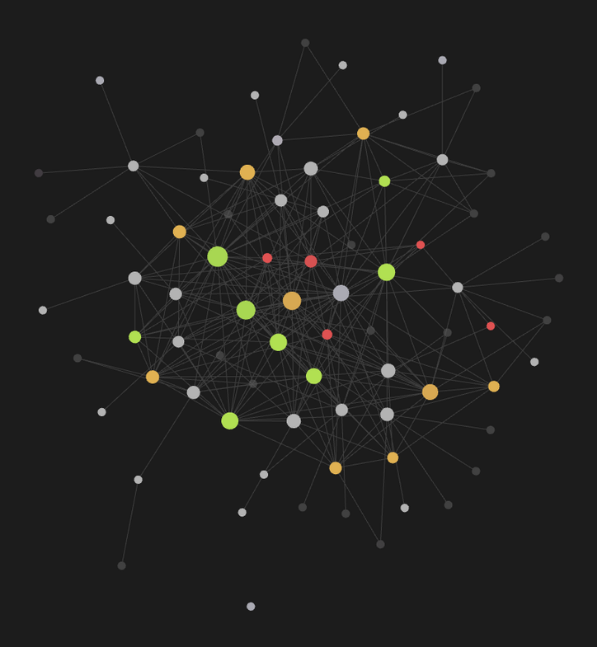
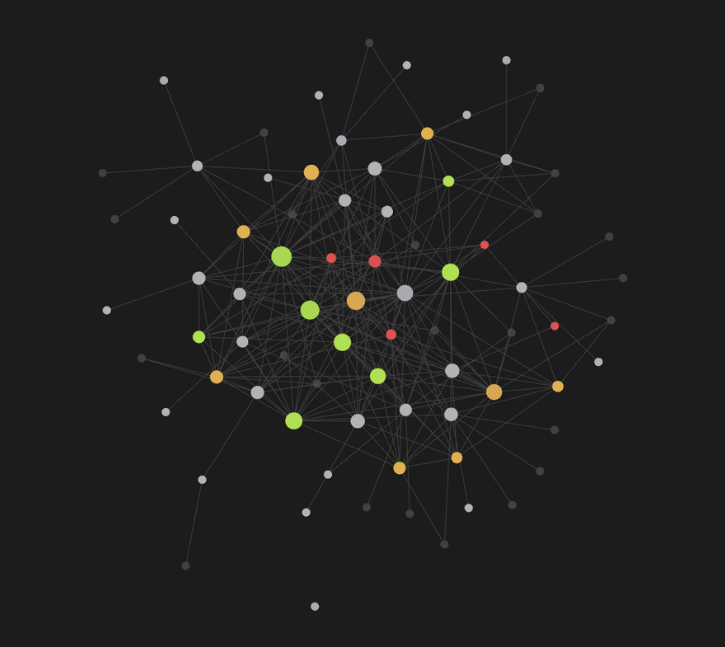
docs: Update README

diff --git a/README.md b/README.md
@@ -4,19 +4,42 @@
 you use it.** Three layers, each a complete working system, each adding exactly one
 idea to the previous one.
 
-```
-raw/note.md ──► wiki/sources/note.md ──► ≥2 mentions ──► wiki/concepts/mcp.md
-                                                     ↘   wiki/overview.md
-                                                     ↘   wiki/index.md   (generated)
-                                                     ↘   log.md          (append-only)
-```
+<img src="assets/llm_wiki_architecture.png" alt="LLM wiki architecture: notes, repos, articles and videos are ingested into an immutable raw/ layer, transformed into wiki/, and queried by an agent" width="800"/>
 
 ## Slides & video
 
-| | |
-|---|---|
-| 📺 **Video** — the workshop, end to end | *to be added* |
-| 🖼 **Slides** | *to be added* |
+🎬 Video and 📑 slides — *coming soon*.
+
+<!-- When the recording is live, replace the line above with the clickable thumbnail:
+
+🎬 Full workshop available on [YouTube](https://www.youtube.com/watch?v=VIDEO_ID) ↓
+
+<a href="https://www.youtube.com/watch?v=VIDEO_ID">
+  <img src="https://img.youtube.com/vi/VIDEO_ID/maxresdefault.jpg" alt="Watch the workshop" style="width:100%; max-width:600px;">
+</a>
+
+📑 Slides [here](SLIDES_URL).
+-->
+
+## How to use this repo
+
+Three ways in. Pick the one that fits the time you have — or do all three in
+order, since each builds on the last:
+
+1. **Read a finished wiki. ~15 min, nothing to install.** Open a committed
+   reference run —
+   [`01-llm-wiki-vanilla/examples/wiki-01-ai-engineering/`](01-llm-wiki-vanilla/examples/wiki-01-ai-engineering/)
+   is the smallest — ideally as an Obsidian vault. You'll see the two halves
+   (`raw/` vs `wiki/`), every claim carrying its citation, and what the ≥2
+   threshold chose to write, before running anything yourself.
+2. **Run one layer's demo. ~30 min.** Install the
+   [prerequisites](#prerequisites), `cd 01-llm-wiki-vanilla`, open your harness,
+   and type the prompts in [`demo.md`](01-llm-wiki-vanilla/demo.md). Every
+   prompt comes with one thing to verify.
+3. **Work through all three layers. ~2–3 h.** Layers 01 and 02 start from
+   nothing; layer 03 starts from a committed copy of layer 02's end state. Read
+   each layer's `CHANGES-FROM-PREVIOUS.md` first to see exactly which files the
+   new idea touched — that diff is the lesson.
 
 ## What an "LLM wiki" is
 
@@ -34,8 +57,84 @@ One note mentioning something is a fact about the note. Two notes mentioning it 
 a fact about your knowledge. That single threshold is what stops the wiki filling
 with stubs — and watching it fire is the most useful five minutes of the workshop.
 
+<img src="assets/one_ingested_item.png" alt="What happens to one ingested item: copied to raw/, distilled into a source page with key insights, entities and concepts — and when a concept reaches ≥2 sources, a synthesized concept page materializes" width="800"/>
+
 The navigation (`index.md` files) is a **derived cache**: delete it, re-run one
 script, get identical bytes back. Nothing has to be kept in sync by hand.
+
+<img src="assets/how_the_index_works.png" alt="How the index works: source, concept and entity pages feed per-directory index files, which feed the root index.md, the overview and the log" width="800"/>
+
+<table>
+<tr>
+<td align="center"><img src="assets/obsidian_graph_02_llm_wiki_ingest_master_index.png" alt="Obsidian graph with the root index.md highlighted, linking out to each section index"/></td>
+<td align="center"><img src="assets/obsidian_graph_02_llm_wiki_ingest_concepts_index.png" alt="Obsidian graph with concepts/index.md highlighted, linking out to every concept page"/></td>
+</tr>
+<tr>
+<td align="center"><em>The master <code>index.md</code> — one hop to every section</em></td>
+<td align="center"><em><code>concepts/index.md</code> — one hop to every concept page</em></td>
+</tr>
+</table>
+
+This is what one looks like as an Obsidian graph — and what it grows into:
+
+<table>
+<tr>
+<td align="center"><img src="assets/obsidian_graph_02_llm_wiki_ingest.png" alt="Obsidian graph of layer 02's reference run: colored concept and entity hubs surrounded by source pages and hollow nodes waiting for a second mention"/></td>
+<td align="center"><img src="assets/obsidian_graph_book.png" alt="Obsidian graph of a mature LLM wiki built from a real corpus: a dense, connected knowledge graph"/></td>
+</tr>
+<tr>
+<td align="center"><em>Layer 02's reference run — 14 sources, 17 nodes</em></td>
+<td align="center"><em>The same system after months on a real corpus — 135 sources, 120 nodes</em></td>
+</tr>
+</table>
+
+<details>
+<summary><strong>What a page actually looks like</strong> — a real concept page from the layer 01 reference run (click to expand)</summary>
+
+<br/>
+
+Three sources engaged with CLIs, so [`wiki/concepts/cli.md`](01-llm-wiki-vanilla/examples/wiki-01-ai-engineering/wiki/concepts/cli.md)
+exists. Frontmatter is the contract; every claim in the body cites the source
+page that backs it; the LLM's own judgment is fenced off as `> Synthesis:`.
+
+```markdown
+---
+type: concept
+title: CLI (as a connectivity layer)
+description: Command-line tools as an agent connectivity layer — fast to adopt
+  in sandboxed, local-execution contexts, but hard to govern once distributed.
+sources:
+  - "[[wiki/sources/the-future-of-mcp-vs-skills]]"
+  - "[[wiki/sources/the-future-of-mcp-why-the-future-of-agents-is-mcp-skills]]"
+  - "[[wiki/sources/why-mcp-is-not-dead]]"
+related:
+  - "[[wiki/concepts/agent-connectivity]]"
+  - "[[wiki/entities/mcp]]"
+created: 2026-08-29T15:32:43Z
+timestamp: 2026-08-29T15:32:43Z
+source_count: 3
+---
+
+# CLI (as a connectivity layer)
+
+> The connectivity layer every source treats as the easy, ungoverned default —
+> great alone, until governance or multi-user distribution enters the picture.
+
+## Key claims
+
+- CLIs are popular with local coding agents because they're easy to compose in
+  a shell and automatically discoverable by a model, and they benefit from
+  being well-represented in LLM training data (e.g., git, GitHub CLIs).
+  [[wiki/sources/the-future-of-mcp-vs-skills]]
+- CLIs work well for personal setups but don't scale to business distribution:
+  installing a CLI on every customer's machine, with no governance model, is a
+  non-starter. [[wiki/sources/why-mcp-is-not-dead]]
+
+> Synthesis: The layer every source treats as the easy default — the ceiling it
+> hits (governance, distribution) is exactly the floor MCP is argued to start from.
+```
+
+</details>
 
 ## The three layers
 
@@ -55,25 +154,54 @@ Layer 01's cap is not a safety rail — it is the honest ceiling of doing everyt
 one context; feed it the 50-note batch and it refuses. Removing the cause rather than
 raising the number is how layer 02 earns its complexity.
 
+## 📬 Learn more on LLM Wikis and agent memory
+
+> Join 40k+ engineers reading [the Decoding AI Magazine](https://www.decodingai.com/) and watching [the Decoding AI YouTube channel](https://www.youtube.com/@itsdecodingai) to learn to design LLM wikis and advanced agent-memory techniques.
+
+<a href="https://www.decodingai.com/" target="_blank">
+  <img src="assets/decodingai.jpg" alt="Decoding AI Magazine" width="100%"/>
+</a>
+
 ## Prerequisites
 
 This is the only place they are listed. Install these once and every skill in every
 layer works out of the box — the skills run the scripts, clone the repos and fetch
 the articles themselves. You only ever type prompts.
 
-- **An agent harness** that can load a skill, read and write files, and run shell
-  commands. Claude Code is the reference: run `claude` inside a layer directory and
-  it finds the skill through `.claude/skills`. Anything equivalent works — nothing
-  here pins a model or a tool name. Layers 02–03 also want a way to spawn
-  subagents; if yours cannot, run the `agents/*.md` files as sequential prompts.
-- **Python ≥3.12** and [`uv`](https://docs.astral.sh/uv/). The scripts are PEP 723
-  single files; `uv` installs their dependencies the first time a skill runs one —
-  no virtualenv, no install step.
-- **`git` and `curl`**, for the repo and article adapters in layers 02–03. No
+| Requirement | Check | Install |
+|---|---|---|
+| An agent harness (Claude Code is the reference) | `claude --version` | [claude.com/claude-code](https://claude.com/claude-code) |
+| Python ≥3.12 | `python3 --version` | `uv python install 3.12` or [python.org](https://www.python.org/downloads/) |
+| [`uv`](https://docs.astral.sh/uv/) | `uv --version` | `curl -LsSf https://astral.sh/uv/install.sh \| sh` ([docs](https://docs.astral.sh/uv/getting-started/installation/)) |
+| `git` + `curl` | `git --version`, `curl --version` | pre-installed on macOS/Linux |
+| Obsidian (optional, recommended) | — | [obsidian.md](https://obsidian.md) |
+
+What each is for:
+
+- **The harness** must load a skill, read and write files, and run shell commands.
+  Run `claude` inside a layer directory and it finds the skill through
+  `.claude/skills`; anything equivalent works — nothing here pins a model or a
+  tool name. Layers 02–03 also want a way to spawn subagents; if yours cannot,
+  run the `agents/*.md` files as sequential prompts.
+- **`uv`** is why there is no install step: the scripts are PEP 723 single files,
+  and `uv` installs their dependencies the first time a skill runs one — no
+  virtualenv.
+- **`git` and `curl`** feed the repo and article adapters in layers 02–03. No
   GitHub token: the demo repo is public and cloned shallow.
-- **Obsidian**, optional but recommended — it is how you check your work. Open a
-  layer's `wiki-ai-engineering/` as a vault and the graph view shows the wiki's
-  shape, including the hollow nodes that mark ideas waiting for a second source.
+- **Obsidian** is how you check your work. Open a layer's `wiki-ai-engineering/`
+  as a vault and the graph view shows the wiki's shape, including the hollow
+  nodes that mark ideas waiting for a second source.
+
+**Verify the setup** — from the repo root, run one of the workshop's scripts
+against a committed reference run:
+
+```bash
+uv run --script 01-llm-wiki-vanilla/.agents/skills/01-llm-wiki-vanilla/scripts/count_mentions.py \
+  --wiki-dir 01-llm-wiki-vanilla/examples/wiki-01-ai-engineering
+```
+
+If it prints a mention table (12 slugs, 9 qualifying), `uv` and Python are wired
+and every layer's scripts will run.
 
 ## How to run it
 
@@ -144,6 +272,8 @@ because one context has to hold all of them.
 `raw/` only if a page genuinely fails. Every claim carries a wikilink; the only
 file that changes is `log.md`. If the wiki does not know, it says so.
 
+<img src="assets/progressive_disclosure_query.png" alt="Querying via progressive disclosure: the agent walks index.md, then a section index, then concept/entity pages, then source pages, and reaches raw/ only as a last resort" width="800"/>
+
 **Run it** — [`01-llm-wiki-vanilla/demo.md`](01-llm-wiki-vanilla/demo.md): ingest
 the 5 easy notes, ask one question, look at the graph.
 
@@ -161,15 +291,7 @@ same list drawn as a graph.
 
 **Goal: remove the ceiling, and let anything with a URI become a source.**
 
-```
-                    ┌── source_writer ── wiki/sources/a.md ──┐
-raw artifacts ──────┼── source_writer ── wiki/sources/b.md ──┼── receipts ──► orchestrator
-                    └── repo_writer ──── wiki/repos/…/ARCHITECTURE.md ─┘          │
-                                                                                  ▼
-                                                         count_mentions → page_writer × N
-                                                                        → overview_writer
-                                                                        → build_index_md
-```
+<img src="assets/fan_out_parallelism.png" alt="Fan-out parallelism: each URI is fetched into raw/, read by its own source writer, aggregated by page writers, then the overview writer — the orchestrator only ever sees receipts" width="800"/>
 
 **Ingest changes who reads.** Every page is written by a subagent defined as plain
 markdown in `agents/`: `source_writer` reads one raw file — the only agent allowed
@@ -186,6 +308,8 @@ SHA-pinned permalinks) ship; YouTube is a skeleton that fails loudly, and wiring
 up is the exercise. Repos are the one origin that **refreshes** instead of skipping,
 because the code moves. A repo page is source-like: a codebase and a note are two
 independent witnesses, so together they can materialize a concept.
+
+<img src="assets/source_adapter_interface.png" alt="The adapter interface: every origin — local files, articles, repos, videos, threads — maps a URI through its own script to one raw artifact plus one receipt with the same fields" width="800"/>
 
 **Query** is unchanged, except that code questions start at `ARCHITECTURE.md` — it
 exists so nobody has to read the clone.
@@ -210,14 +334,7 @@ pages the noisy notes produce. Noise is cheap; the threshold made it so.
 
 **Goal: make interaction a second way for the graph to grow.**
 
-```
-question ──► answer from wiki pages ──┬─► wiki/questions/<date>-<slug>.md   (always)
-                                      ├─► wiki/notes/<slug>.md             (if ≥2 pages cited)
-                                      ├─► wiki/open-questions.md           (if it can't answer)
-                                      └─► wiki/repos/<repo>/<slug>.md      (if it needs the code)
-                                                    │
-                                                    └─► the ingest tail runs ─► concept pages grow
-```
+<img src="assets/interactive_llm_wiki_workflow.png" alt="The interactive workflow: every question leaves a question page; answers that earn it become notes; unanswerable questions land in open-questions.md; code questions produce a repo note that re-enters through ingest" width="800"/>
 
 **Ingest is unchanged.** **Query now writes back**, under three write regimes:
 ingest-owned pages (`raw/`, `sources/`, `entities/`, `concepts/`, `overview.md`,
@@ -255,6 +372,14 @@ question → repo note → recount → updated page; and `git status` on the ing
 pages: the only ones that changed are the ones the tail touched.
 
 ---
+
+## 📬 Learn more on LLM Wikis and agent memory
+
+> Join 40k+ engineers reading [the Decoding AI Magazine](https://www.decodingai.com/) and watching [the Decoding AI YouTube channel](https://www.youtube.com/@itsdecodingai) to learn to design LLM wikis and advanced agent-memory techniques.
+
+<a href="https://www.decodingai.com/" target="_blank">
+  <img src="assets/decodingai.jpg" alt="Decoding AI Magazine" width="100%"/>
+</a>
 
 ## What the reference runs actually contain
 
@@ -295,5 +420,9 @@ This is the only README. Each layer's `demo.md` is its walkthrough. Live runs
 
 ---
 
-Built by [Decoding AI](https://www.decodingai.com). MIT licensed — take the
-contracts, the scripts and the page templates and point them at your own notes.
+## License
+
+MIT — see [LICENSE](LICENSE). Take the contracts, the scripts and the page
+templates and point them at your own notes.
+
+Built by [Decoding AI](https://www.decodingai.com).
